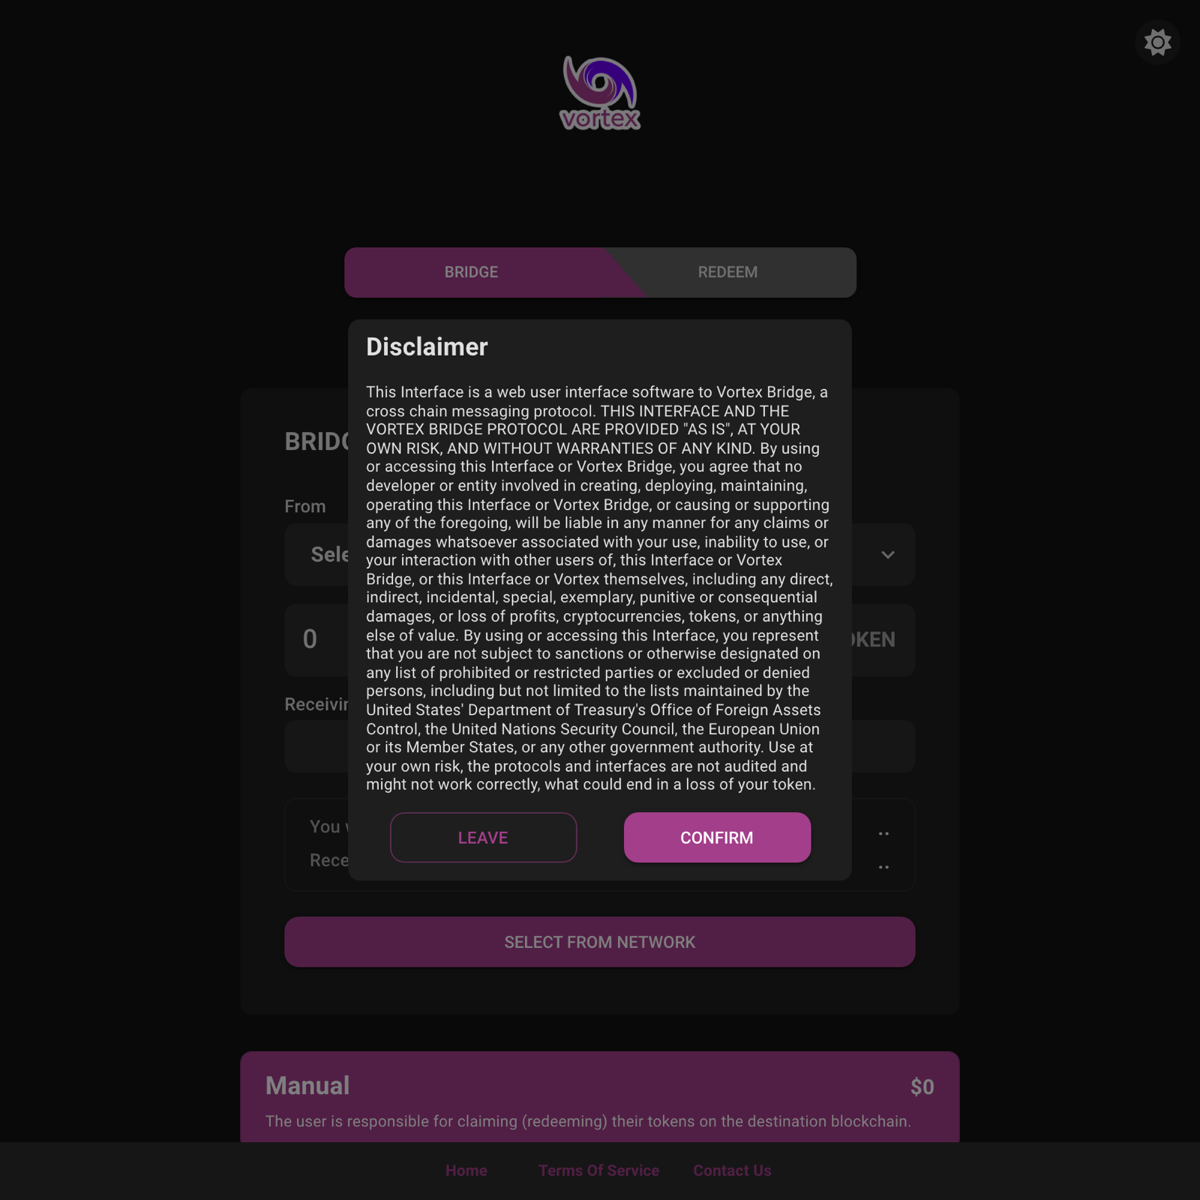
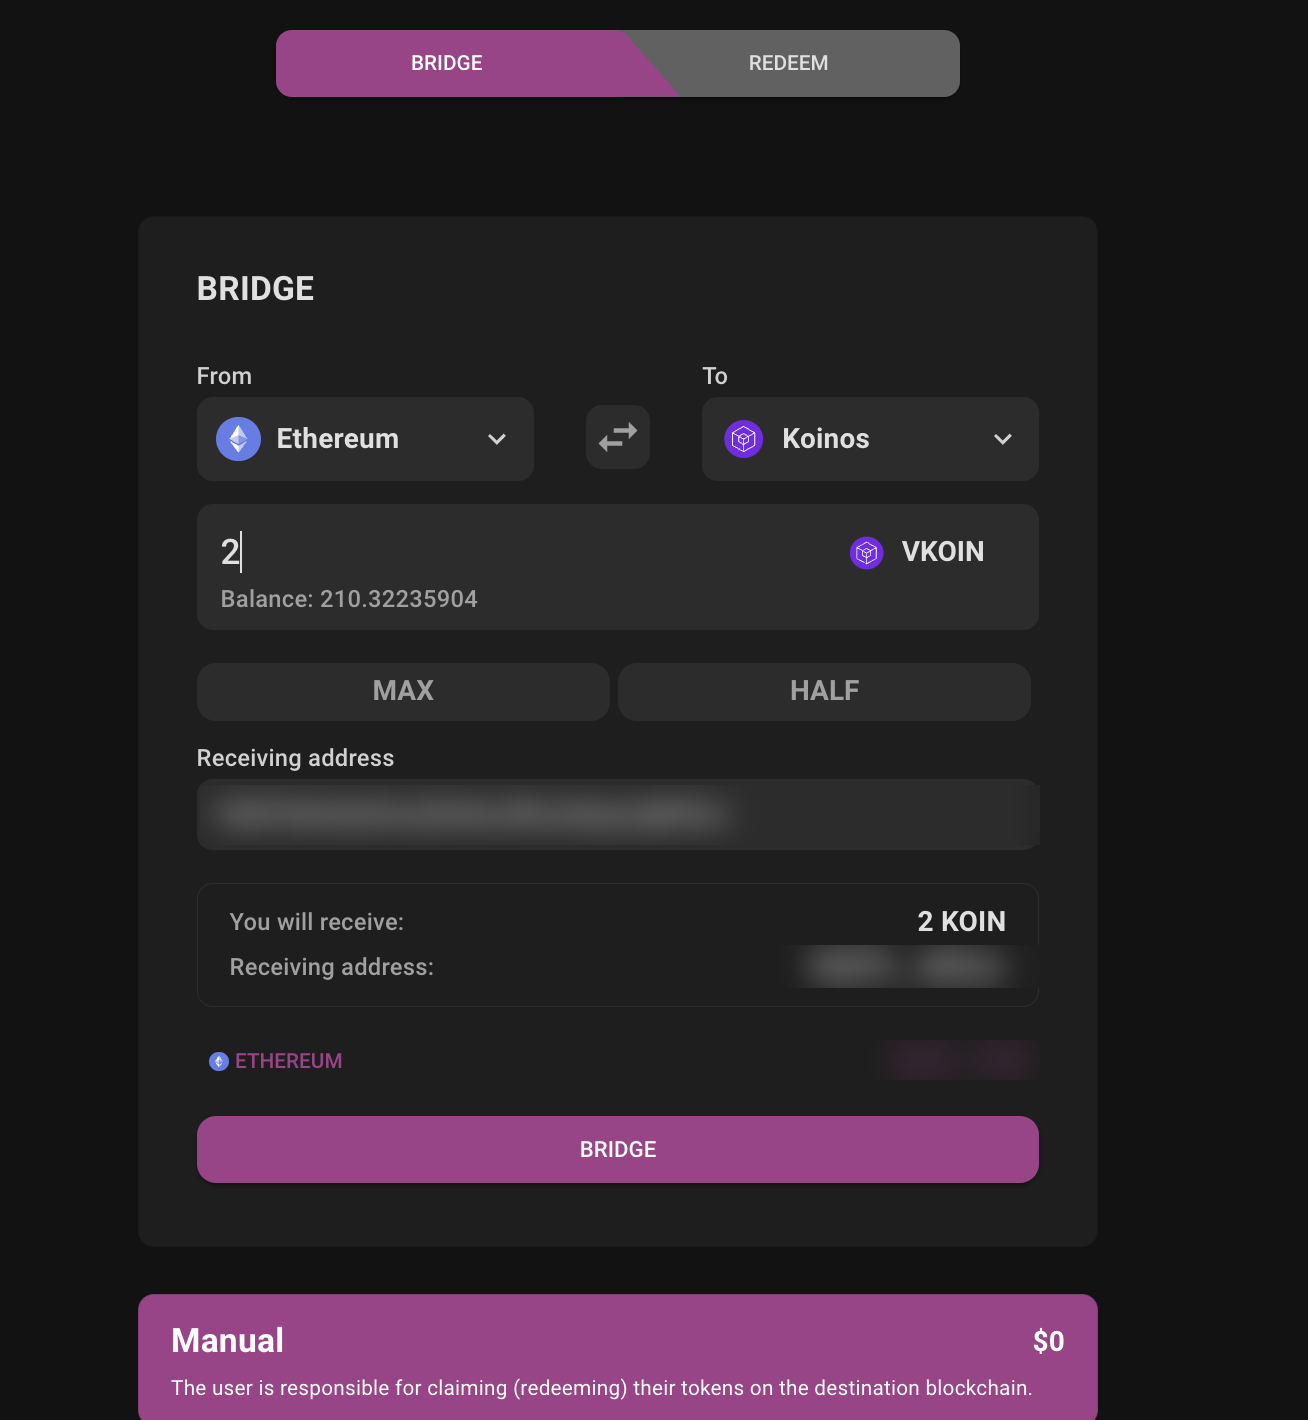
Address review: verified redeem flow, Kondor 1.3, anchors, sitemap, images
Review round on the /get-koin guide:

- Redeem mana: walked Ethereum -> Vortex -> Koinos end to end on mainnet
  from a brand-new Kondor 1.3 account holding 0 KOIN. Vortex sets no payer
  and its relayer list is empty, so the signing account pays by default;
  Kondor 1.3's default mana flow switches the payer to Kondor's community
  free-mana account by itself when the account cannot pay and that account
  can. The guide now says exactly that, once, and no longer hedges.
- The guide links Kondor 1.3 (Chrome Web Store listing "Kondor") instead of
  Kondor 2: Kondor 2.0.3 keeps the dApp's rc_limit (the signer's own mana,
  0 on a new account) and cannot pay the redeem for an empty account.
  Reported to the Kondor team; one FAQ entry explains the choice and the
  guide will move back once fixed.
- Mobile: sections carry scroll-margin-top so #choose and #guide clear the
  fixed 80px header when a shared link is opened directly.
- public/sitemap.xml lists /get-koin.
- Screenshots: removed the four unused ones; the bridge step now shows the
  filled-in Vortex form, the Redeem tab in the signed state and Kondor 1.3's
  signing pop-up, all captured 26 August 2026, identifiers blurred, metadata
  stripped. Kondor 2 screenshots removed.

diff --git a/data/getKoin.js b/data/getKoin.js
@@ -19,12 +19,18 @@ export const CONTRACTS = VKOIN_CONTRACTS;
 export const OFFICIAL_LINKS = {
   vortex: "https://vortexbridge.io/bridge",
   koindx: SWAP_LINKS.koindx,
-  // kondorwallet.com is the canonical entry point and currently points at the
-  // Kondor Wallet v2 listing below. The older "Kondor" listing (extension id
-  // ghipkefk…) is a previous version — do not link it.
-  kondor: "https://kondorwallet.com/",
-  kondorStore:
-    "https://chromewebstore.google.com/detail/kondor-wallet/hfcdnighclikmdfkdcecohgnfdglpdmp",
+  // The guide links Kondor 1.3 (Chrome listing "Kondor", id ghipkefk…), not
+  // Kondor 2 from kondorwallet.com. Kondor 2.0.3's "Use free mana" keeps the
+  // dApp's rc_limit (= the signer's own mana, 0 on a new account) and retries
+  // once with +1 KOIN, so a new account cannot pay the ~1.9 KOIN Vortex redeem.
+  // Kondor 1 dry-runs every transaction and, when the signer's mana is short
+  // and the sharer has mana, switches the payer to the sharer by itself
+  // (estimateAndAdjustMana); verified
+  // from a 0-KOIN account on mainnet 26 Aug 2026 (tx 0x1220ccd3…d33d).
+  // Bug reported to the Kondor team. Switch back to kondorwallet.com once
+  // Kondor 2 handles it.
+  kondor:
+    "https://chromewebstore.google.com/detail/kondor/ghipkefkpgkladckmlmdnadmcchefhjl",
   mana: "https://docs.koinos.io/overview/mana/",
   telegram: "https://telegram.koinos.io",
 };
@@ -90,13 +96,16 @@ export const WALLETS = [
     id: "kondor",
     name: "Kondor",
     family: "Koinos",
-    install: "https://kondorwallet.com/",
-    installLabel: "kondorwallet.com",
+    install:
+      "https://chromewebstore.google.com/detail/kondor/ghipkefkpgkladckmlmdnadmcchefhjl",
+    installLabel: "the Chrome Web Store (Kondor 1.3)",
     routes: ["koinos"],
     addressKind: "a Koinos address",
     addressNote: "It cannot receive anything sent on Ethereum, Base or Solana.",
     quirks: [
       "Kondor shows mana next to your KOIN balance. Mana is what Koinos transactions use.",
+      "When your account cannot pay a transaction's mana and Kondor's free-mana account can, the signing pop-up switches the payer to that account by itself — you see it in the Payer field.",
+      "This guide is written for Kondor 1.3, the listing linked above — not Kondor 2. The FAQ explains why.",
       "Its receive screen says to send only Koinos assets to it. Take that literally.",
     ],
   },
@@ -113,7 +122,8 @@ export const WALLETS = [
 // routes stop at vKOIN.
 //
 // The Koinos route is not a way to buy a first KOIN: an empty Koinos account
-// has no mana of its own.
+// holds nothing to trade. Its lack of mana is not the blocker — Kondor can have
+// its free-mana sharer pay instead (see the redeem note in bridgeStep).
 
 export const ROUTES = [
   {
@@ -174,7 +184,7 @@ export const ROUTES = [
     outcome: "a working Koinos wallet",
     outcomeShort: "Needs KOIN first",
     plan: "Install Kondor → receive native KOIN through the Ethereum route → trade on KoinDX.",
-    note: "Not a way to buy your first KOIN. An empty Koinos account has no mana of its own, so it cannot pay for a trade yet.",
+    note: "Not a way to buy your first KOIN — an empty Koinos account has nothing to trade yet. Fund it first through the Ethereum route.",
   },
 ];
 
@@ -250,12 +260,10 @@ const WALLET_IMAGES = {
     },
   },
   kondor: {
-    address: {
-      src: `${IMG}/kondor-receive.png`,
-      alt: "The Kondor Receive KOIN screen with a QR code, the Koinos address and a warning to send only Koinos tokens to it.",
-      caption: sourced("Kondor's receive screen.", "kondorwallet.com"),
-      frame: "phone",
-    },
+    // No Kondor 1.3 screenshot yet: kondorwallet.com only shows Kondor 2, and
+    // the Chrome Web Store page carries no real screenshots. Add one from the
+    // extension itself (Receive view) when available.
+    address: null,
   },
 };
 
@@ -286,18 +294,22 @@ function kondorSetupStep() {
     id: "kondor",
     title: "Install Kondor for the Koinos side",
     context:
-      "Native KOIN lives on Koinos and your Ethereum wallet cannot hold it. Start at kondorwallet.com and follow its download link — don't search the store, older listings still exist.",
+      "Native KOIN lives on Koinos and your Ethereum wallet cannot hold it. Install Kondor 1.3 from the link below; this guide is written for that version (the FAQ explains why not Kondor 2).",
     micro: [
-      "Open kondorwallet.com and add the extension it links to.",
+      "Add the Kondor extension from the link above.",
       "Create a wallet and write the recovery phrase on paper.",
       "Open Receive and copy your Koinos address.",
     ],
-    link: { href: OFFICIAL_LINKS.kondor, label: "Open kondorwallet.com" },
+    link: { href: OFFICIAL_LINKS.kondor, label: "Open Kondor in the Chrome Web Store" },
     image: WALLET_IMAGES.kondor.address,
     callouts: [
       {
         type: "warning",
         text: "Only Koinos assets can be sent to this address.",
+      },
+      {
+        type: "tip",
+        text: "A new Koinos account holds no KOIN, so it has no mana of its own yet. Kondor 1.3 covers that by itself: when your account cannot pay and its free-mana account can, the signing pop-up puts that account in the Payer field. Nothing to switch on — it carries you through the redeem in the last step.",
       },
     ],
   };
@@ -392,37 +404,59 @@ function swapStep(wallet, route) {
   };
 }
 
+// Verified 26 Aug 2026 against the live vortexbridge.io bundle and mainnet:
+// the redeem is complete_transfer (entry 0x4d4d3ef9) on the Koinos bridge
+// contract 1aqHtNRDkiAZeFtuM8fRFuurcje6eHqF8. The frontend sets no payer and
+// its relayer list is empty, so the signing account pays. Kondor 1.3's default
+// "Optimize mana" flow dry-runs the transaction and, when the signer's mana is
+// short and the sharer has enough, switches the payer to Kondor's sharer
+// 162GhJwsciDiKsgwzj2t6VoFHt3RMzGKdG by itself (authorize() accepts any
+// transaction, 100 KOIN of mana cap per tx), setting rc_limit from rc_used plus
+// the sharer's offset; otherwise it stops with "Free mana service is congested"
+// or "unavailable due to lack of funds". The "Use free mana" box under Advanced
+// is only the manual form. Walked end to end on mainnet
+// 26 Aug 2026 from a brand-new 0-KOIN account: the sharer paid, rc_used 1.74 KOIN
+// (tx 0x1220ccd3…d33d). Kondor 2.0.3 fails this case (see OFFICIAL_LINKS).
+// Expired validator signatures are renewed with request_new_signatures,
+// another Koinos transaction.
 function bridgeStep() {
   return {
     id: "bridge",
     title: "Bridge to Koinos with Vortex",
     context:
-      "Vortex takes vKOIN on Ethereum and releases native KOIN to the Koinos address you name. It does not finish by itself: you redeem on the Koinos side at the end.",
+      "Vortex takes vKOIN on Ethereum and releases native KOIN to the Koinos address you name. It does not finish by itself: you redeem on the Koinos side, and Vortex does not pay for that transaction — by default, the account that signs it does.",
     micro: [
-      "Open Vortex, read its disclaimer, continue only if you accept it.",
-      "From: Ethereum. To: Koinos. Token: vKOIN. Enter the amount.",
+      "Open Vortex, read its disclaimer, then set From: Ethereum, To: Koinos, Token: vKOIN, and the amount.",
       "Paste your Kondor address and compare the whole of it.",
       "Sign the permission, then the deposit, in your wallet. Note the transaction hash.",
-      "Wait, then complete the Redeem step.",
+      "Wait, then press Redeem and Sign in Kondor's pop-up — while your account is empty, Kondor pays the mana from its free-mana account by itself, as long as that account has mana to spare. This delivers your KOIN.",
     ],
     link: { href: OFFICIAL_LINKS.vortex, label: "Open Vortex" },
     image: {
       src: `${IMG}/vortex-bridge-form.png`,
-      alt: "The Vortex bridge form with From and To network selectors, a token selector, an amount and a receiving address field.",
-      caption: captured("vortexbridge.io"),
+      alt: "The Vortex bridge form filled in: From Ethereum, To Koinos, 2 vKOIN, a receiving address (blurred), and the summary You will receive 2 KOIN above the Bridge button.",
+      caption:
+        "The bridge form filled in: 2 vKOIN from Ethereum to Koinos, with the Kondor address as the receiving address. vortexbridge.io, captured 26 August 2026.",
     },
     extraImages: [
       {
         src: `${IMG}/vortex-redeem.png`,
-        alt: "The Vortex Redeem tab with source network, redeem network and source transaction ID fields.",
+        alt: "The Vortex Redeem tab showing source network Ethereum, redeem network Koinos, the source transaction ID (blurred), a status box with Tx Status signed, block time, expiry and three signatures, and a Redeem button.",
         caption:
-          "The Redeem tab resumes a transfer from its transaction hash if you closed the page too early.",
+          "The Redeem tab once the validators have signed: press Redeem. If you closed the page too early, paste the source transaction ID here to resume. Captured 26 August 2026.",
+      },
+      {
+        src: `${IMG}/kondor-sign.png`,
+        alt: "Kondor 1.3's signing pop-up for the redeem: the site vortexbridge.io, the operation Complete transfer, a koin Transfer event of 2 KOIN, an Advanced link, a warning about unknown contracts, and Cancel and Sign buttons.",
+        caption:
+          "Kondor 1.3 asking you to sign the redeem: the operation is Complete transfer and the event shows the KOIN you receive. Press Sign. Captured 26 August 2026.",
+        frame: "phone",
       },
     ],
     callouts: [
       {
         type: "cost",
-        text: "Ethereum fees for the permission and the deposit. The redeem runs on Koinos, where transactions use mana — if your Kondor account is new and empty, read what the redeem asks for before you deposit.",
+        text: "Ethereum fees for the permission and the deposit. The redeem runs on Koinos and spends mana instead of a fee; while your account is still empty, Kondor's free-mana account covers it by itself if it can — if not, Kondor says so and you try again later.",
       },
       {
         type: "tip",
@@ -456,7 +490,7 @@ function koinosFundStep() {
     id: "fund",
     title: "Get native KOIN into Kondor",
     context:
-      "An empty Koinos account has no mana of its own, so it cannot pay for a trade. Fund it through the Ethereum route first, using your Kondor address as the destination.",
+      "KoinDX trades between assets that are already on Koinos, so something has to arrive first. Fund the account through the Ethereum route, using your Kondor address as the destination.",
     micro: [
       "Follow the Ethereum route with your Kondor address in the bridge step.",
       "Complete the redeem, then check Kondor shows KOIN and mana.",
@@ -574,7 +608,9 @@ export const NATIVE_VS_WRAPPED = {
 export const MANA = {
   title: "Mana",
   paragraphs: [
-    "Koinos has no gas fee. Holding KOIN gives your account mana; transactions spend it and it refills over a few days. An empty account has no mana of its own, so it cannot pay for its own transactions — that is why a new Kondor wallet must receive KOIN before it can do anything. Bring a little more than the minimum you had in mind, and don't move your whole balance at once.",
+    "Koinos has no gas fee. Holding KOIN gives your account mana; transactions spend it and it refills over a few days. A new account holds no KOIN, so it has no mana of its own.",
+    "That would leave a new wallet unable to pay for anything, so Koinos lets one account pay the mana for another. Kondor 1.3 uses this by itself: when your account cannot pay and its free-mana account can, the signing pop-up puts that account in the Payer field. That is what carries a new wallet through its first transaction.",
+    "Once your KOIN arrives you have your own mana. Keep some KOIN rather than moving the whole balance out, or the account goes back to having none.",
   ],
   linkLabel: "Mana documentation",
   linkHref: OFFICIAL_LINKS.mana,
@@ -605,7 +641,7 @@ export const FAQS = [
   },
   {
     q: "Why can't I start on KoinDX?",
-    a: "A Koinos account gets mana from the KOIN it holds. An empty one has none of its own, so it cannot pay for a swap. Something has to arrive first.",
+    a: "KoinDX swaps between assets that are already on Koinos. A new account holds none, so there is nothing to swap yet. Bring KOIN over from Ethereum first.",
   },
   {
     q: "What does it cost?",
@@ -616,8 +652,16 @@ export const FAQS = [
     a: "Probably not lost. Check the transaction in the block explorer, then add the token using the official address on this page. Never add an address someone sent you.",
   },
   {
+    q: "Why Kondor 1.3 and not Kondor 2?",
+    a: "Kondor 2 (kondorwallet.com) is the newer wallet, but as of August 2026 its free-mana option cannot pay the Vortex redeem for an account that holds no KOIN yet. Kondor 1.3 can, and that is what a first purchase needs. The bug has been reported; this guide will move to Kondor 2 once it is fixed.",
+  },
+  {
+    q: "My Kondor account is empty. Can it pay for the redeem?",
+    a: "Not from its own mana — it has none until the KOIN arrives. Kondor 1.3 notices that and, if its own free-mana account has enough mana, lets it pay instead; the pop-up's Payer field shows it. If Kondor says the free mana service is congested or unavailable, keep your transaction hash and come back later; the Redeem tab picks the transfer up again.",
+  },
+  {
     q: "My bridge transfer is stuck.",
-    a: "Don't start another. Take the source transaction hash to Vortex's Redeem tab, which resumes a transfer whose redeem did not complete.",
+    a: "Don't start another. Take the source transaction hash to Vortex's Redeem tab, which resumes a transfer whose redeem did not complete. If it shows the signatures as expired, press Renew signatures — a Koinos transaction too, paid the same way while your account is empty and free mana is available — wait, then redeem.",
   },
   {
     q: "Is this financial advice?",
@@ -630,6 +674,7 @@ export const GLOSSARY = [
   ["Bridge", "Moves value between two blockchains. Vortex: Ethereum ↔ Koinos. Portal (Wormhole): Ethereum ↔ Base / Solana."],
   ["Contract address", "The unique identifier of a token, and the only reliable way to tell a real one from a copy."],
   ["DEX", "A swap site that trades straight from your wallet without holding your funds."],
+  ["Free mana", "Kondor paying a transaction's mana from its own account instead of yours, so a wallet with no KOIN can still send a transaction. Kondor 1.3 does this by itself when your account cannot pay and that account can."],
   ["Mana", "What Koinos transactions use instead of a fee. Comes from holding KOIN and refills over time."],
   ["Network fee", "What Ethereum, Base or Solana charge per transaction, paid in ETH or SOL."],
   ["Recovery phrase", "The words that restore a wallet. Whoever has them controls it."],

diff --git a/styles/GetKoin.module.css b/styles/GetKoin.module.css
@@ -94,6 +94,8 @@
 .section {
   padding: 2.75rem 0;
   border-top: 1px solid var(--gk-line);
+  /* #choose and #guide are shared as links, so a jump must clear the header. */
+  scroll-margin-top: 1.5rem;
 }
 
 .h2 {
@@ -799,6 +801,15 @@
 }
 
 /* ------------------------------------------------------------- responsive */
+
+/* Below 992px the site header is fixed (public/css/menu.css) and 80px tall
+   (public/css/responsive.css overrides the 54px base in both mobile ranges),
+   so an anchored section has to start below it. Measured at 390px and 768px. */
+@media (max-width: 991px) {
+  .section {
+    scroll-margin-top: 96px;
+  }
+}
 
 @media (max-width: 720px) {
   .wrap {
